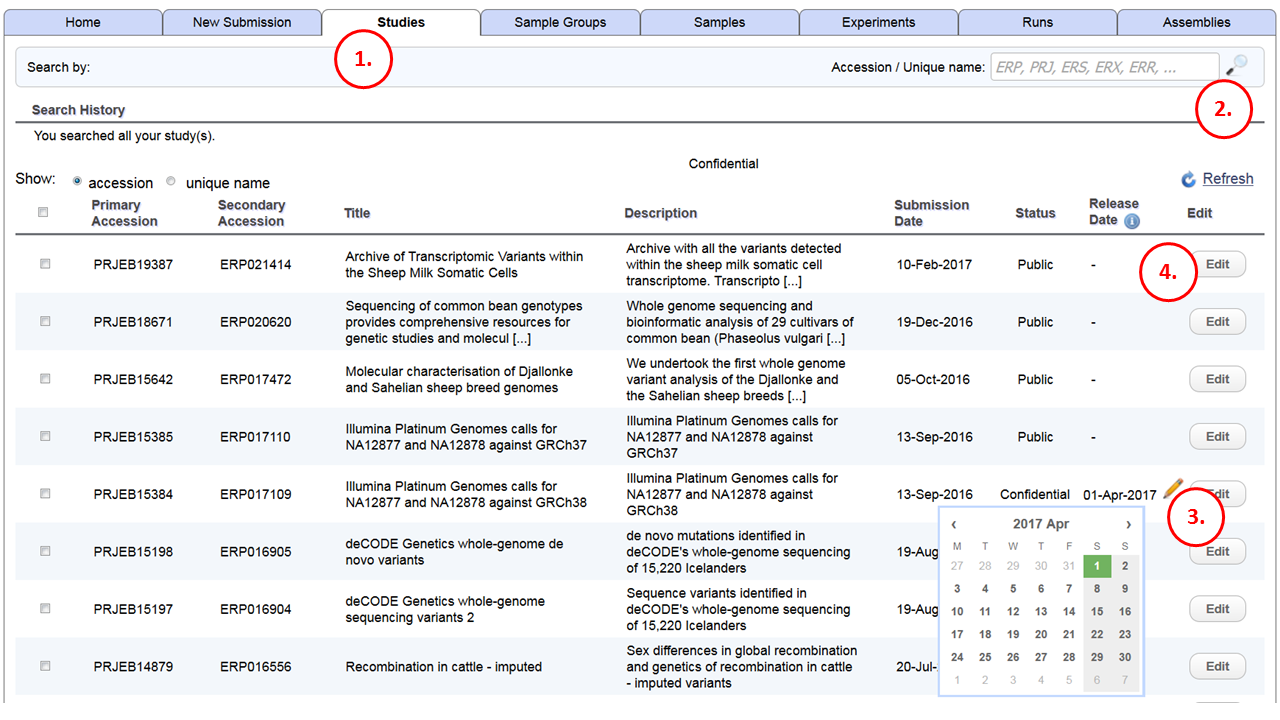
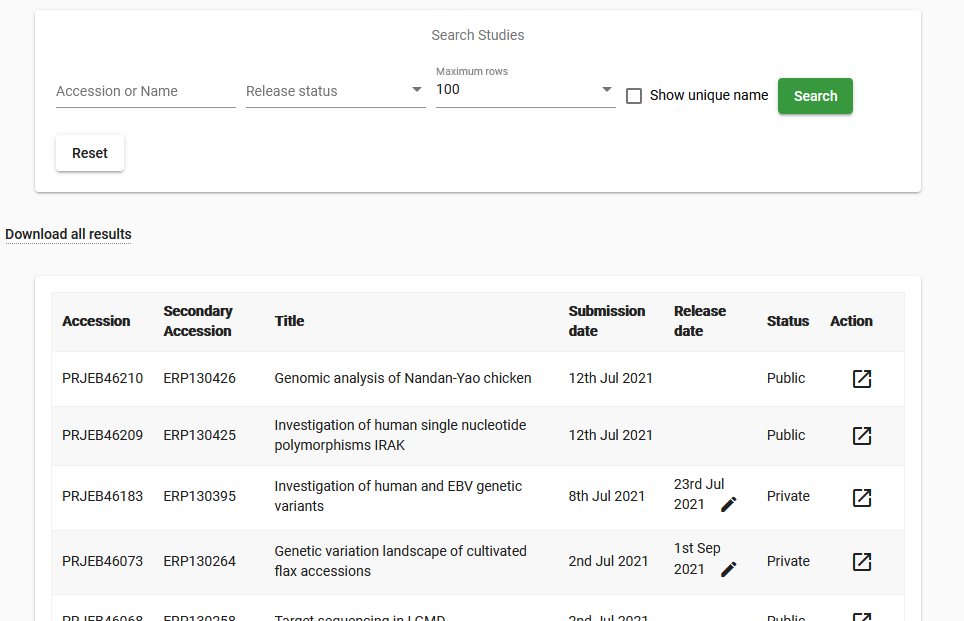
Updated content for study edits in WSP

diff --git a/update/metadata/interactive.rst b/update/metadata/interactive.rst
@@ -2,10 +2,13 @@
 Updating Studies, Samples, Experiments and Runs Interactively
 =============================================================
 
-The interactive submission interface supports some editing of your submitted objects.
-Access these existing objects by clicking the relevant tab after logging in to `Webin <https://www.ebi.ac.uk/ena/submit/sra/#home>`_.
+The `Webin Submissions Portal (WSP) <https://www.ebi.ac.uk/ena/submit/webin/>`_ allows you to edit some of your
+submitted objects.
+Access these existing objects by clicking the relevant tab after logging in to
+`Webin <https://www.ebi.ac.uk/ena/submit/sra/#home>`_.
 
 Note that under no circumstances can an object's own accession or alias attribute be edited.
+The names of submitted files are also not editable, though the associated MD5 value can be updated.
 
 When editing the XML version of an object, you should in general leave the element tags unchanged.
 These are the capitalised words enclosed in '<>'.
@@ -14,6 +17,8 @@ For example, in the below XML snippet you should leave the words 'ELEMENT' uncha
 ::
 
     <ELEMENT>value</ELEMENT>
+
+For samples, there may sometimes be good reason to add, remove, or edit the element names.
 
 - 1: `Study Edits`_
 - 2: `Sample Edits`_
@@ -26,30 +31,27 @@ Study Edits
 Some parts of the study object can be edited.
 These include the release date, title, description and publication references.
 
+1. Log in to `WSP <https://www.ebi.ac.uk/ena/submit/webin/login>`_ and select the 'Studies Report' button to be
+   presented with the below interface:
+
 .. image:: ../images/mod_05_p03.png
 
-1. Login to `Webin <https://www.ebi.ac.uk/ena/submit/sra/#home>`_ and find the studies tab.
-2. Find the study in the list, or search for it by its accession.
-3. If your study is confidential you can change the release date by clicking on the pencil icon and navigating to the required date in the calendar.
-   To release the study simply select the current date/present day and set the following processes in motion:
-
-	- Moving relevant sequence data files to a public archive.
-	- Indexing and rendering the study and its objects so that they can be linked-to and visualised in the ENA browser.
-	- Mirroring to INSDC databases, who will then make the data available through their services.
-
-   Please allow up to 48 hours for newly released data to appear in the public database.
-   Read more about this in our `Data Release Policies FAQ <../../faq/release.html>`_
-
-4. For edits besides changing the release date, click the 'Edit' button.
+2. Find the study you wish to edit in the list, or search for it by accession/name
+3. If your study is confidential, you can change the release date by clicking the pencil icon and navigating to the
+   required date in the calendar. Read more on this in our `Data Release Policies FAQ <../../faq/release.html>`_
+4. For edits other than changing the release date, click the Action button and then the 'Edit study (project)' option
+   for a graphical interface or the 'Edit study (project) XML' option to work in XML format
 
 .. image:: ../images/mod_05_p04.png
 
-5. The short name for the study will be visible in search outputs and overview pages whereas the descriptive title and abstract will be presented in the study's public page.
-6. You can add the PMID of any papers related to your data.
-   There will then be a link to the paper from your study's public page.
-7. Study attributes are optional tag-value pairs you can specify to add extra information or to make your study more searchable.
-   For example, you could add a 'DOI' tag with your paper's DOI as the value.
-8. Save your changes when you are satisfied with your updates, or click 'Cancel' to abandon them.
+5. Edit values in this interface as required: the short name for the study will be visible in search outputs and
+   overview pages whereas the descriptive title and abstract will be presented in the study's public page
+6. If you now wish to add a genome assembly with functional annotation to this study, start by checking the box for this
+   and then registering a `locus tag prefix <../..faq/locus_tags.html>`_ at the bottom of the page
+7. You can add papers by searching the PubMed ID; through integration with ePMC these papers will then be linked from
+   this study's page in the ENA Browser
+8. Add additional keywords as desired; for example you may add a DOI as shown above
+9. Save your changes when you are satisfied, or click 'Cancel' to abandon them
 
 
 Sample Edits
